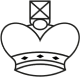
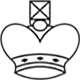
v0407.4
Macht keine Änderungen an den Klassen: "board" oder "KingWhite"

diff --git a/Board.java b/Board.java
@@ -13,12 +13,15 @@ public class Board{
     public JFrame frame;
     public JLabel cboard;
     public int[][][] board_matrix;
+    public String board_position;
 
-    public Board(){
-        /// Frame erstellen
+    public Board() {startSetup(); }
+
+
+    public void startSetup(){
+        /// Setup des Frames
         frame = new JFrame("Schach - Roman, Nick");
         frame.setDefaultCloseOperation(JFrame.EXIT_ON_CLOSE);
-        //  Height 
         frame.setSize(1600, 840);
         frame.setLocation(100, 100);
         ImageIcon image = new ImageIcon("images/frame_icon.jpg");
@@ -26,20 +29,11 @@ public class Board{
         frame.setResizable(false);
         frame.setLayout(null);
 
-        // Brett als Label displayen
+        // Setup des Brettes als Label
         cboard = new JLabel();
         cboard.setIcon(new ImageIcon("images/chessboard.png"));
         cboard.setBounds(400,0,800,800);
 
-        startSetup();
-
-        frame.add(cboard);
-
-
-        frame.setVisible(true);
-    }
-
-    public void startSetup(){
         /// Setup von der Brett Matrix
         board_matrix = new int[8][8][2];
         for (int col=0; col<8; col++){
@@ -54,33 +48,135 @@ public class Board{
             }
         }
 
-        KingWhite kw = new KingWhite(board_matrix[7][4][0], board_matrix[7][4][1]);  // König platziert auf row=8; col=5; und (0|1) = (x|y) Koordinate
-        JLabel king_white = new JLabel(kw.image);
-        king_white.setBounds(kw.posx, kw.posy , 80 , 80);
+        board_position = "rnbqkbnr/pppppppp/8/8/8/8/PPPPPPPP/RNBQKBNR";
 
-        KnightBlack nbo = new KnightBlack(board_matrix[0][1][0], board_matrix[0][1][1]);
-        JLabel knight_black_one = new JLabel(nbo.image);
-        knight_black_one.setBounds(nbo.posx, nbo.posy, 80, 80);
+        boardPosition(board_position);
 
-        KnightBlack nbt = new KnightBlack(board_matrix[0][6][0], board_matrix[0][6][1]);
-        JLabel knight_black_two = new JLabel(nbt.image);
-        knight_black_two.setBounds(nbt.posx, nbt.posy, 80, 80);
+        /// Weiße Figuren
+        KingWhite white_king = new KingWhite(board_matrix[7][4][0], board_matrix[7][4][1]);  // König platziert auf row=8; col=5; und (0|1) = (x|y) Koordinate
+        JLabel white_king_label = new JLabel(white_king.image);
+        white_king_label.setBounds(white_king.posx, white_king.posy , 80 , 80);
 
-        frame.add(king_white);
-        frame.add(knight_black_one);
-        frame.add(knight_black_two);
+        /// Schwarze Figuren
+        KnightBlack black_knight_one = new KnightBlack(board_matrix[0][1][0], board_matrix[0][1][1]);
+        JLabel black_knight_one_label = new JLabel(black_knight_one.image);
+        black_knight_one_label.setBounds(black_knight_one.posx, black_knight_one.posy, 80, 80);
 
-        /* Displaying Matrix
-        for (int i=0; i<8; i++){
-            for(int j=0; j<8; j++) {
-                for(int k =0 ; k<2; k++){
-                System.out.print(board_matrix[i][j][k] + " | ");
-                }
-            }
-            System.out.println();
-        }
-        */
+        KnightBlack black_knight_two = new KnightBlack(board_matrix[0][6][0], board_matrix[0][6][1]);
+        JLabel black_knight_two_label = new JLabel(black_knight_two.image);
+        black_knight_two_label.setBounds(black_knight_two.posx, black_knight_two.posy, 80, 80);
+
+        frame.add(white_king_label);
+        frame.add(black_knight_one_label);
+        frame.add(black_knight_two_label);
+
+        frame.add(cboard);
+
+        frame.setVisible(true);
     }
+
+    public void boardPosition(String pgn){
+        int i=0;
+        for (int col=0; col<8; col++){
+            for(int row=0; row<8; row++) {
+                switch (pgn.charAt(i)) {
+                    case (char) "r" -> {
+                        if (black_rook_one.set != true) {
+                            black_rook_one.changeCords(board_matrix[col][row][0], board_matrix[col][row][1]);
+                            print(black_rook_one);
+                            black_rook_one.set = true;
+                            continue;
+                        }
+                        black_rook_two.changeCords(board_matrix[col][row][0], board_matrix[col][row][1]);
+                        print(black_rook_two);
+                        continue;
+                    }
+                    case (char) "n" -> {
+                        if (black_knight_one.set != true) {
+                            black_knight_one.changeCords(board_matrix[col][row][0], board_matrix[col][row][1]);
+                            print(black_knight_one);
+                            black_knight_one.set = true;
+                            continue;
+                        }
+                        black_knight_two.changeCords(board_matrix[col][row][0], board_matrix[col][row][1]);
+                        print(black_knight_two);
+                        continue;
+                    }
+                    case (char) "b" -> {
+                        if (black_bishop_one.set != true) {
+                            black_bishop_one.changeCords(board_matrix[col][row][0], board_matrix[col][row][1]);
+                            print(black_bishop_one);
+                            black_bishop_one.set = true;
+                            continue;
+                        }
+                        black_bishop_two.changeCords(board_matrix[col][row][0], board_matrix[col][row][1]);
+                        print(black_bishop_two);
+                        continue;
+                    }
+                    case (char) "q" -> {
+                        black_queen.changeCords(board_matrix[col][row][0], board_matrix[col][row][1]);
+                        print(black_queen);
+                        continue;
+                    }
+                    case (char) "k" -> {
+                        black_king.changeCords(board_matrix[col][row][0], board_matrix[col][row][1]);
+                        print(black_king);
+                        continue;
+                    }
+
+                    // White Pieces
+                    case (char) "R" -> {
+                        if (white_rook_one.set != true) {
+                            white_rook_one.changeCords(board_matrix[col][row][0], board_matrix[col][row][1]);
+                            print(white_rook_one);
+                            white_rook_one.set = true;
+                            continue;
+                        }
+                        black_rook_two.changeCords(board_matrix[col][row][0], board_matrix[col][row][1]);
+                        print(white_rook_two);
+                        continue;
+                    }
+                    case (char) "N" -> {
+                        if (white_knight_one.set != true) {
+                            white_knight_one.changeCords(board_matrix[col][row][0], board_matrix[col][row][1]);
+                            print(white_knight_one);
+                            white_knight_one.set = true;
+                            continue;
+                        }
+                        white_knight_two.changeCords(board_matrix[col][row][0], board_matrix[col][row][1]);
+                        print(white_knight_two);
+                        continue;
+                    }
+                    case (char) "B" -> {
+                        if (white_bishop_one.set != true) {
+                            white_bishop_one.changeCords(board_matrix[col][row][0], board_matrix[col][row][1]);
+                            print(white_bishop_one);
+                            white_bishop_one.set = true;
+                            continue;
+                        }
+                        white_bishop_two.changeCords(board_matrix[col][row][0], board_matrix[col][row][1]);
+                        print(white_bishop_two);
+                        continue;
+                    }
+                    case (char) "Q" -> {
+                        white_queen.changeCords(board_matrix[col][row][0], board_matrix[col][row][1]);
+                        print(white_queen);
+                        continue;
+                    }
+                    case (char) "K" -> {
+                        white_king.changeCords(board_matrix[col][row][0], board_matrix[col][row][1]);
+                        print(white_king);
+                        continue;
+                    }
+                    default -> i += (int) pgn.charAt(i);
+                }
+                i++;
+            }
+            i++;
+        }
+    }
+
+    public void print(){}
 
     public static void main(String[] args) {
         new Board();

diff --git a/KingWhite.java b/KingWhite.java
@@ -15,11 +15,11 @@ public class KingWhite {
     public KingWhite(int x , int y){
         posx = x;
         posy = y;
-        image = new ImageIcon("images/king_white3.png");
+        image = new ImageIcon("images/king_white.png");
     }
 
     public KingWhite(){
-        image = new ImageIcon("images/king_white3.png");
+        image = new ImageIcon("images/king_white.png");
     }
 
     public int fwd() {
